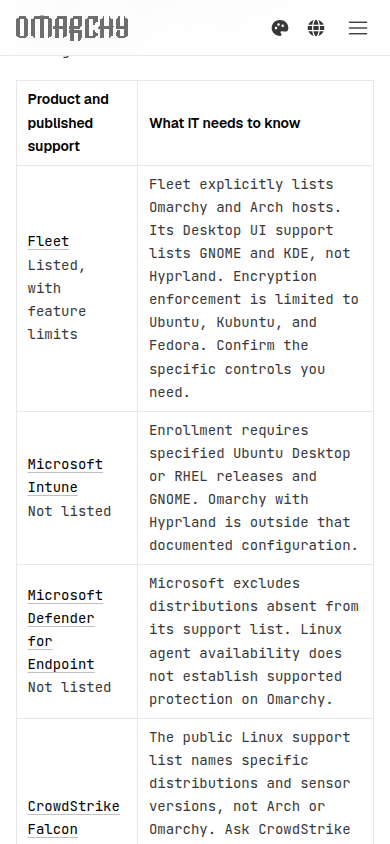
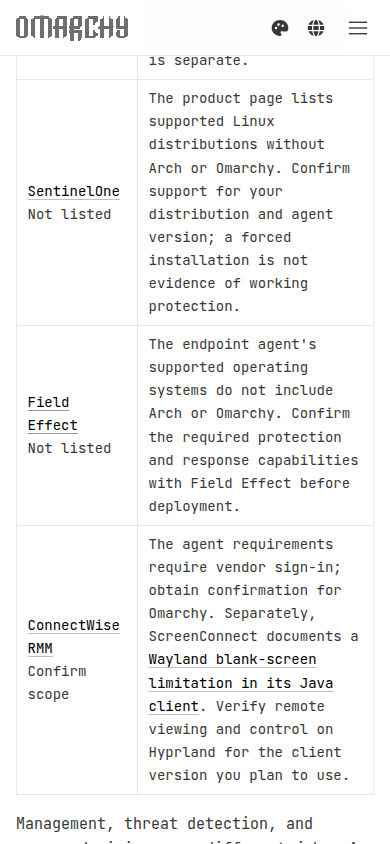
Refresh workplace guide review screenshots

diff --git a/README.md b/README.md
@@ -1,9 +1,7 @@
 # Omarchy at work PR screenshots
 
-Screenshots of the production build at source commit ef16480a in yashranaway/omarchy-site, captured with Playwright Chromium through a temporary Cloudflare preview tunnel on 13 September 2026.
+Screenshots of the production build at source commit cd253f0db76f4c8c0fe991433cb874b35af1ad95 in yashranaway/omarchy-site, captured with Playwright Chromium from a local preview on 15 September 2026.
 
-Desktop viewport: 1440 × 1000. Mobile viewport: 390 × 844. The mobile image shows the start of the scrollable page's compatibility table.
-
-T3 loaded the preview, but its screenshot tool returned PreviewAutomationTimeoutError and PreviewAutomationExecutionError. These images were captured with Playwright, not T3.
+Desktop viewport: 1440 × 1200. The desktop compatibility image captures the complete nine-product table. Mobile viewport: 390 × 844. The mobile image shows the three added vendor entries.
 
 This branch stores review evidence only and is not part of the proposed website change.
